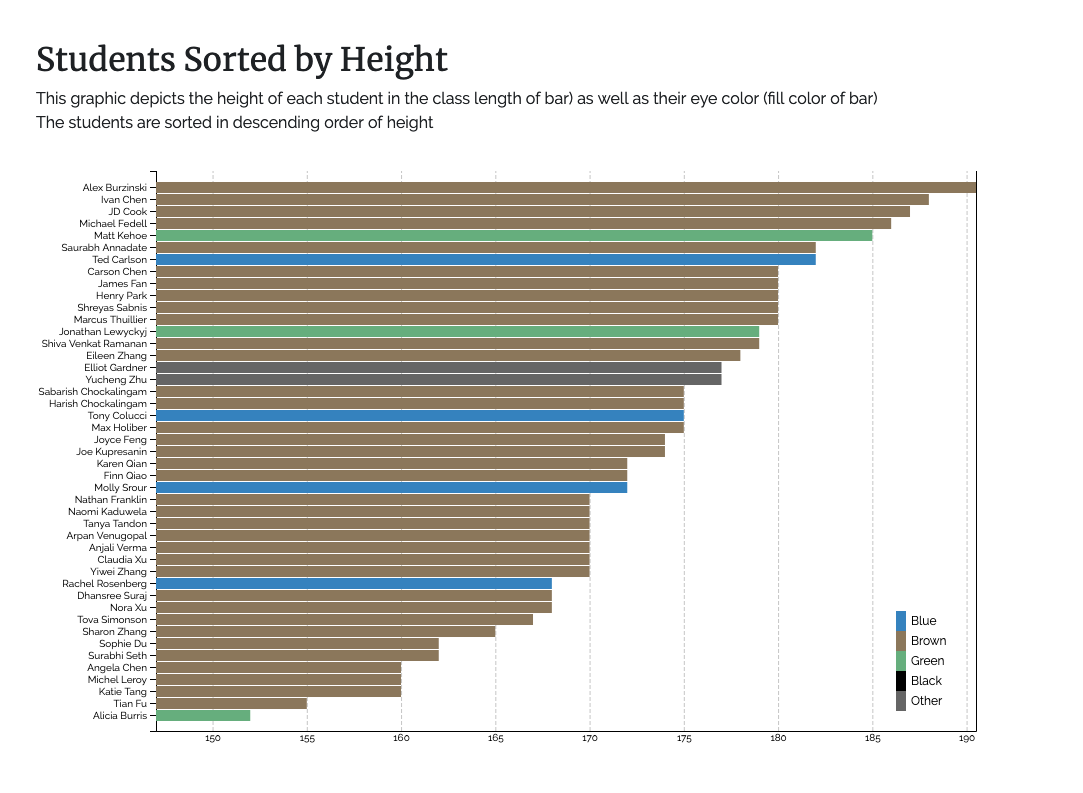
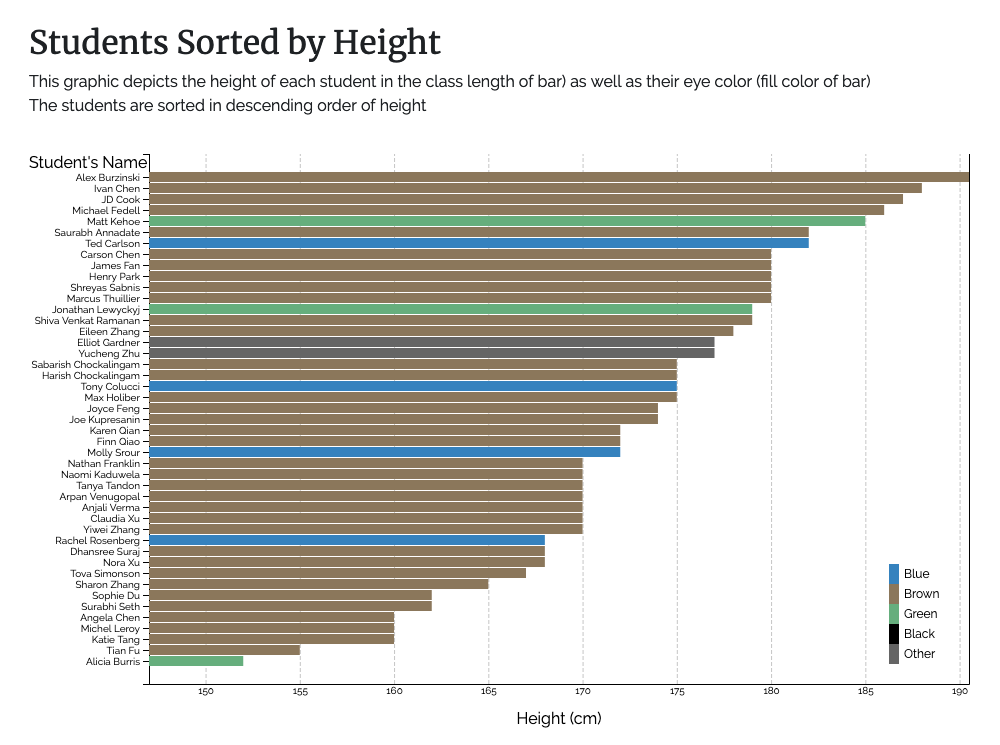
Add axes labels to graphs

Changed region(s): [[0.031, 0.2161, 0.992, 0.9879], [0.031, 0.0309, 0.868, 0.1852]]

diff --git a/simple.html b/simple.html
@@ -7,16 +7,6 @@
   <meta http-equiv="X-UA-Compatible" content="ie=edge">
   <title>Who's Who in MSiA?</title>
   <style>
-    h1,
-    h2,
-    h3 {
-      font-family: 'Merriweather', sans-serif;
-    }
-
-    * {
-      font-family: 'Raleway', serif;
-    }
-
     .axis.x line {
       stroke-width: 1px;
       stroke: #ccc;
@@ -46,7 +36,7 @@
 
   <script src="https://d3js.org/d3.v4.min.js"></script>
   <script>
-    let margin = { top: 20, right: 20, bottom: 20, left: 120 };
+    let margin = { top: 20, right: 20, bottom: 50, left: 120 };
 
     let width = 960 - margin.left - margin.right;
     let height = 600 - margin.top - margin.bottom;
@@ -122,8 +112,10 @@
       data.sort((a, b) => -a.Last.localeCompare(b.Last));
       // console.log(data)
 
+      // Adjust scales based on available data
       xScale.domain([d3.min(data, d => d.Height) - 5, d3.max(data, d => d.Height)]);
       yScale.domain(data.map(d => d.Name));
+
       let xAxisGroup = nameSvg.append('g')
         .attr('class', 'x axis')
         .attr('transform', `translate(0, ${height})`)
@@ -131,6 +123,21 @@
       let yAxisGroup = nameSvg.append('g')
         .attr('class', 'y axis')
         .call(yAxis);
+
+      // text label for the x axis
+      nameSvg.append('text')
+        .attr('transform', `translate(${(width / 2)}, ${(height + margin.top + 20)})`)
+        .style('text-anchor', 'middle')
+        .style('color', 'black')
+        .text('Height (cm)');
+
+      // text label for the y axis
+      nameSvg.append('text')
+        .attr('y', -2)
+        .attr('x', 0 - margin.left)
+        .attr('dy', '1em')
+        .style('text-anchor', 'left')
+        .text('Student\'s Name');
 
       nameSvg.selectAll('.bar')
         .data(data).enter()
@@ -184,6 +191,21 @@
         .attr('width', d => xScale(d.Height))
         .attr('height', yScale.bandwidth())
         .style('fill', d => d.Color)
+
+      // text label for the x axis
+      heightSvg.append('text')
+        .attr('transform', `translate(${(width / 2)}, ${(height + margin.top + 20)})`)
+        .style('text-anchor', 'middle')
+        .style('color', 'black')
+        .text('Height (cm)');
+
+      // text label for the y axis
+      heightSvg.append('text')
+        .attr('y', -2)
+        .attr('x', 0 - margin.left)
+        .attr('dy', '1em')
+        .style('text-anchor', 'left')
+        .text('Student\'s Name');
 
       colorLegend = heightSvg.selectAll(".legend")
         .data(colorScale.domain())

diff --git a/index.html b/index.html
@@ -49,7 +49,7 @@
 
   <script src="https://d3js.org/d3.v4.min.js"></script>
   <script>
-    let margin = { top: 20, right: 20, bottom: 20, left: 120 };
+    let margin = { top: 20, right: 20, bottom: 50, left: 120 };
 
     let width = 960 - margin.left - margin.right;
     let height = 600 - margin.top - margin.bottom;
@@ -125,8 +125,10 @@
       data.sort((a, b) => -a.Last.localeCompare(b.Last));
       // console.log(data)
 
+      // Adjust scales based on available data
       xScale.domain([d3.min(data, d => d.Height) - 5, d3.max(data, d => d.Height)]);
       yScale.domain(data.map(d => d.Name));
+
       let xAxisGroup = nameSvg.append('g')
         .attr('class', 'x axis')
         .attr('transform', `translate(0, ${height})`)
@@ -134,6 +136,21 @@
       let yAxisGroup = nameSvg.append('g')
         .attr('class', 'y axis')
         .call(yAxis);
+
+      // text label for the x axis
+      nameSvg.append('text')
+        .attr('transform', `translate(${(width / 2)}, ${(height + margin.top + 20)})`)
+        .style('text-anchor', 'middle')
+        .style('color', 'black')
+        .text('Height (cm)');
+
+      // text label for the y axis
+      nameSvg.append('text')
+        .attr('y', -2)
+        .attr('x', 0 - margin.left)
+        .attr('dy', '1em')
+        .style('text-anchor', 'left')
+        .text('Student\'s Name');
 
       nameSvg.selectAll('.bar')
         .data(data).enter()
@@ -187,6 +204,21 @@
         .attr('width', d => xScale(d.Height))
         .attr('height', yScale.bandwidth())
         .style('fill', d => d.Color)
+
+      // text label for the x axis
+      heightSvg.append('text')
+        .attr('transform', `translate(${(width / 2)}, ${(height + margin.top + 20)})`)
+        .style('text-anchor', 'middle')
+        .style('color', 'black')
+        .text('Height (cm)');
+
+      // text label for the y axis
+      heightSvg.append('text')
+        .attr('y', -2)
+        .attr('x', 0 - margin.left)
+        .attr('dy', '1em')
+        .style('text-anchor', 'left')
+        .text('Student\'s Name');
 
       colorLegend = heightSvg.selectAll(".legend")
         .data(colorScale.domain())
